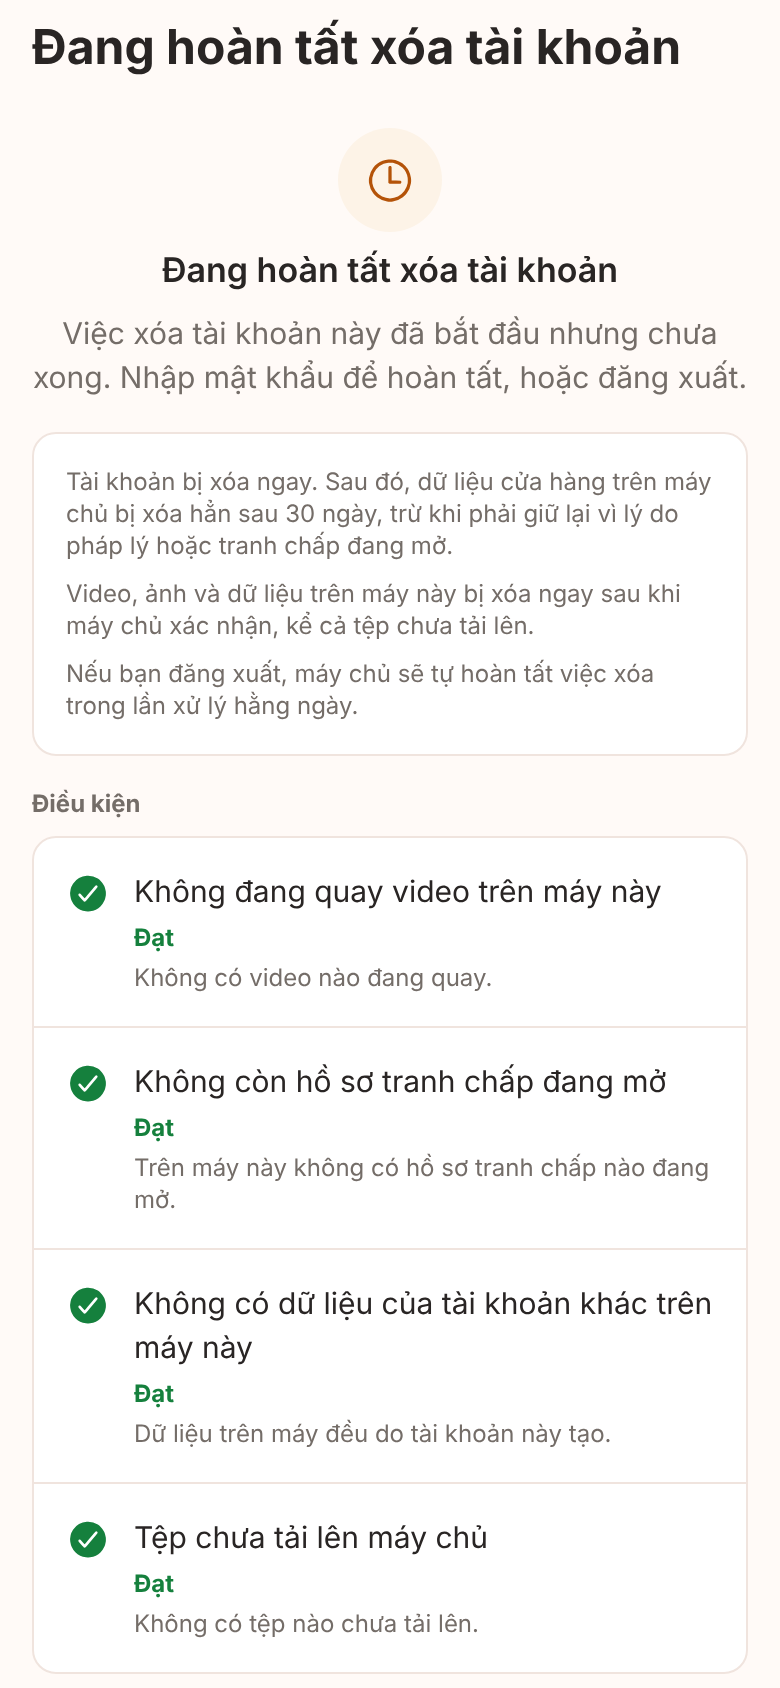
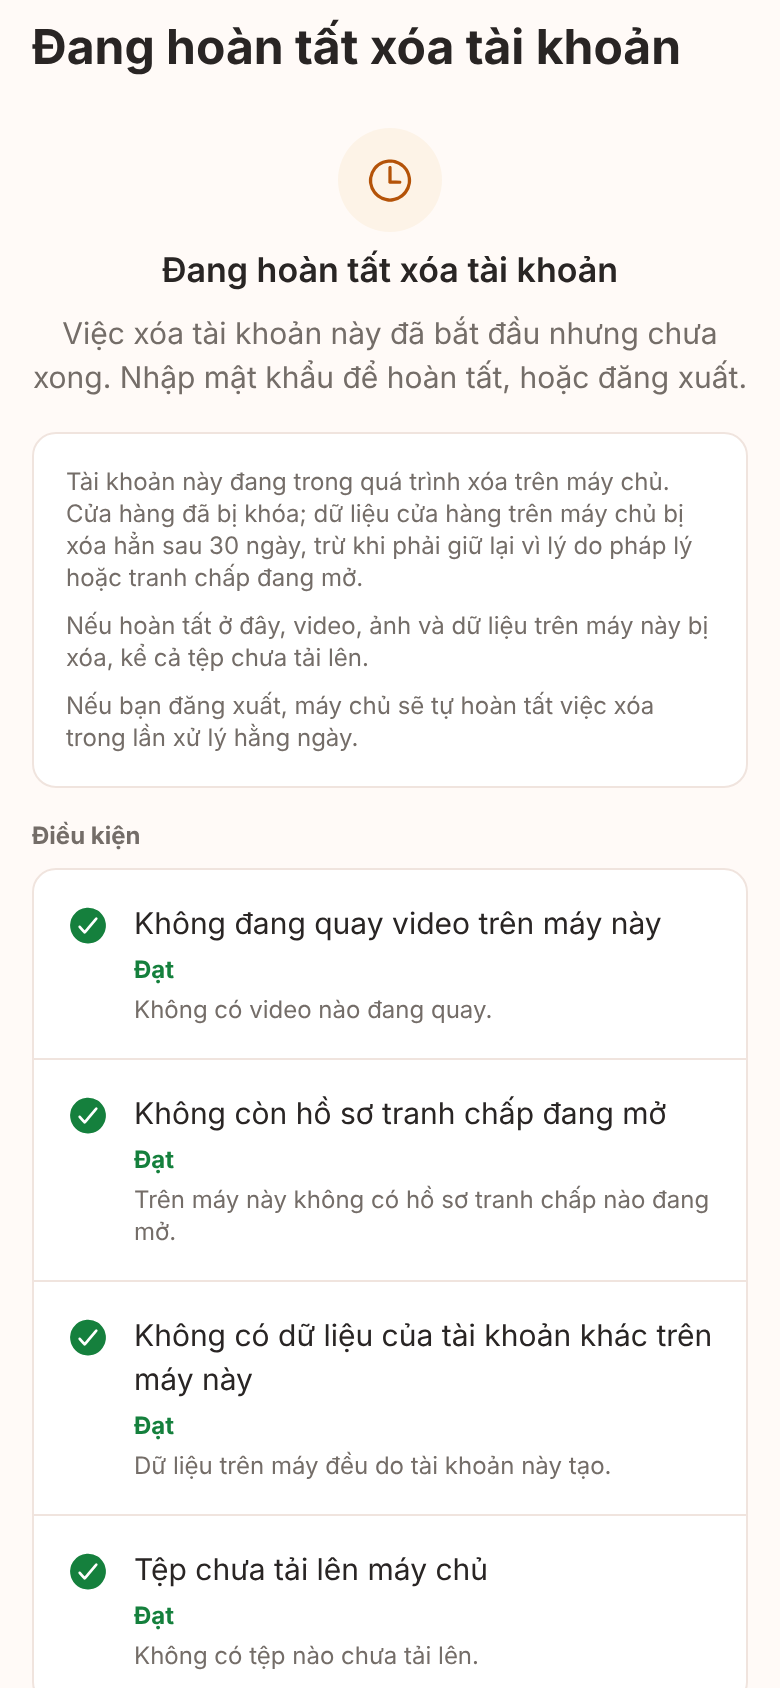
docs(account): V1-15 chụp lại màn Đang hoàn tất và thêm ảnh lỗi "chưa rõ" (review PR #61)
Claude-Session: https://claude.ai/code/session_01EqYbDgQebWwJDZZaEixKbZ

Changed region(s): [[0.0308, 0.2773, 0.9231, 1.0], [0.0308, 0.9858, 0.0615, 1.0]]

diff --git a/docs/assets/screens/v1-15-account-delete-client/README.md b/docs/assets/screens/v1-15-account-delete-client/README.md
@@ -2,7 +2,9 @@
 
 **Ảnh bản web (react-native-web trong Chromium), cổng giả. Không phải ảnh iOS/Android, chưa kiểm chứng trên thiết bị.** Font, bóng, vùng an toàn, bàn phím, Back phần cứng, chữ lớn hệ thống khác thiết bị thật (kế hoạch v1 mục 4.2). Cỡ 390x844 @2x, khung nhìn (không phải cả trang; ảnh "bottom" là cùng màn đã cuộn xuống).
 
-Cách chụp: xuất web bằng `node scripts/screens/capture.cjs --source <nhánh nháp> --port 5115` (V1-00), rồi một kịch bản Playwright ngoài repo bấm qua luồng trên chính bản xuất đó (tích "Tôi hiểu và đồng ý", bấm "Xóa tài khoản", nhập mật khẩu). Mật khẩu của cổng giả: sai bất kỳ -> "Mật khẩu hiện tại chưa đúng."; `demo-matmang-1` -> mô phỏng mất mạng (`FAKE_DELETE_OFFLINE_PASSWORD`); `demo-matkhau-1` -> xóa thành công.
+Cách chụp: xuất web bằng `node scripts/screens/capture.cjs --source <nhánh nháp> --port 5115` (V1-00), rồi một kịch bản Playwright ngoài repo bấm qua luồng trên chính bản xuất đó (tích "Tôi hiểu và đồng ý", bấm "Xóa tài khoản", nhập mật khẩu). Mật khẩu của cổng giả: sai bất kỳ -> "Mật khẩu hiện tại chưa đúng."; `demo-matmang-1` -> mô phỏng mất mạng trước khi gửi (`FAKE_DELETE_OFFLINE_PASSWORD`); `demo-chuaro-1` -> mô phỏng máy chủ đã xóa nhưng mất phản hồi (`FAKE_DELETE_UNCONFIRMED_PASSWORD`); `demo-matkhau-1` -> xóa thành công.
+
+Ảnh 08b, 09, 09b, 09d chụp lại sau review PR #61 (câu "chưa rõ", câu riêng của màn Đang hoàn tất).
 
 **Thay đổi tạm KHÔNG commit** (nhánh nháp đã xóa sau khi chụp), vì bản web không có SQLite/kho tranh chấp có dữ liệu: `use-account-deletion.ts` đọc `?demoUnsynced=`, `?demoDisputes=`, `?demoForeign=` từ URL để thay số tệp chưa tải, số hồ sơ tranh chấp mở và số bản ghi của tài khoản khác. Màn "Đang hoàn tất xóa tài khoản" mở thẳng bằng đường dẫn `/create-shop/deletion-pending` (trên app chỉ vào khi máy chủ trả `account_deleted`).
 
@@ -40,6 +42,10 @@ Cách chụp: xuất web bằng `node scripts/screens/capture.cjs --source <nhá
 
 ![Lỗi mạng](08-network-error-390x844.png)
 
+## Đã gửi mà không rõ kết quả: "Chưa rõ tài khoản đã xóa xong chưa", KHÔNG nói "Chưa có gì bị xóa" (review PR #61)
+
+![Chưa rõ](08b-unconfirmed-390x844.png)
+
 ## Máy chủ đã xác nhận: lớp phủ "Đang xóa dữ liệu trên máy này"
 
 ![Đang xóa dữ liệu trên máy](09c-wiping-overlay-390x844.png)
@@ -53,3 +59,7 @@ Cách chụp: xuất web bằng `node scripts/screens/capture.cjs --source <nhá
 ![Đang hoàn tất xóa tài khoản](09-deletion-pending-390x844.png)
 
 ![Đang hoàn tất xóa tài khoản, cuộn xuống: mật khẩu và Đăng xuất](09b-deletion-pending-bottom-390x844.png)
+
+## Đang hoàn tất xóa tài khoản khi còn tranh chấp mở: dữ liệu trên máy được giữ lại, liên hệ hỗ trợ, vẫn đăng xuất được (review PR #61)
+
+![Đang hoàn tất, còn tranh chấp mở](09d-deletion-pending-dispute-kept-390x844.png)
